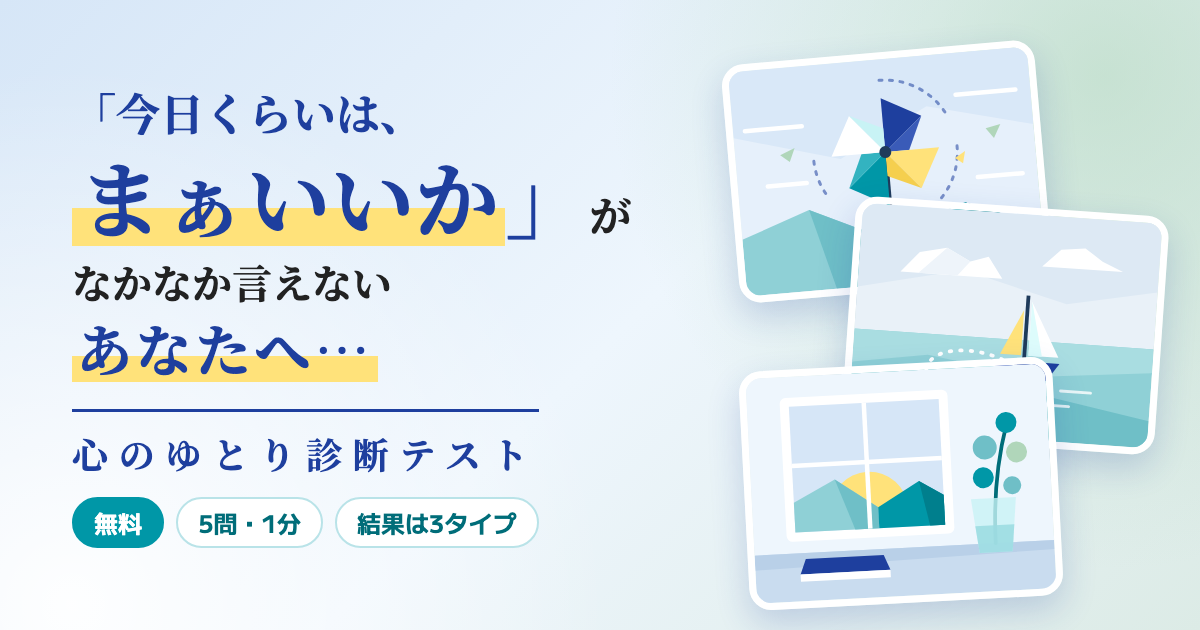
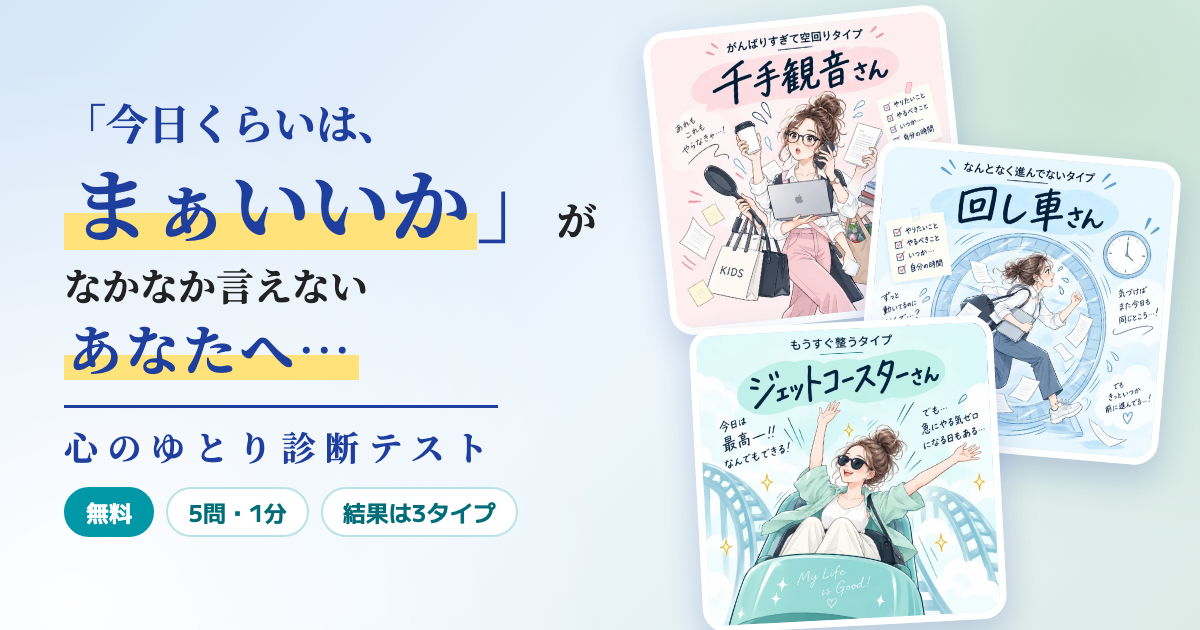
OGP画像を新イラスト3枚に更新（?v=2）、?src=threads でタイプ別リザストtrackidを登録URLに引き継ぐ計測を追加（9/22）

diff --git a/index.html b/index.html
@@ -9,7 +9,7 @@
 <meta property="og:title" content="心のゆとり診断テスト｜あまのさわ">
 <meta property="og:description" content="5問・1分。「今日くらいは、まぁいいか」がなかなか言えない人のための、心のゆとりタイプ診断。自分に合った余白の作り方がわかります。">
 <meta property="og:url" content="https://pochita1202.github.io/kokoro-yutori-shindan/">
-<meta property="og:image" content="https://pochita1202.github.io/kokoro-yutori-shindan/ogp.png">
+<meta property="og:image" content="https://pochita1202.github.io/kokoro-yutori-shindan/ogp.png?v=2">
 <meta property="og:image:width" content="1200">
 <meta property="og:image:height" content="630">
 <meta property="og:site_name" content="あまのさわ">
@@ -285,11 +285,11 @@ body.yt-immersive .freetextSec { display: none !important; }
     // 合計が min 点以上で判定（上から順）。registerUrl はタイプ別リザスト登録ページ（多目的ページ 162335/162336/162338。申込完了メール＝詳しい結果の1通だけ届く）。hook は結果メール冒頭（さわさん本人の文）から引用。
     // img はタイプ別イラスト（さわさん提供 2026-09-22。site/img/ に配置、imgBase と結合）。nick はイラスト内の愛称（入り口カードに表示＝さわさん希望 2026-09-22。<wbr> はカードでの改行位置。結果画面はイラスト内の文字に任せ alt にのみ使う）。bg はイラストの地色（結果画面の背景と入り口カードの色に使う）。peek は入り口カードの丸窓に写す位置（顔まわり・background-position 値）
     types: [
-      { min: 100, art: 'spin', img: 'type-spin-senju.webp', nick: '千手観音さん', bg: '#fdeff1', peek: '48% 36%', registerUrl: 'https://www.reservestock.jp/inquiry/OGU1MTBhNTdlN', name: 'がんばりすぎて<wbr>空回りタイプ',
+      { min: 100, art: 'spin', img: 'type-spin-senju.webp', nick: '千手観音さん', bg: '#fdeff1', peek: '48% 36%', track: { threads: '899ab82a0b1d7f5f' }, registerUrl: 'https://www.reservestock.jp/inquiry/OGU1MTBhNTdlN', name: 'がんばりすぎて<wbr>空回りタイプ',
         hook: '「今日めっちゃ頑張ったのに、\n結局なに進んだんだっけ…？」\n\n↑これ、週3で思ってません？' },
-      { min: 85, art: 'drift', img: 'type-drift-mawashiguruma.webp', nick: '回し車さん', bg: '#e8f7fd', peek: '52% 40%', registerUrl: 'https://www.reservestock.jp/inquiry/N2Q2ZWMyOGY1Y', name: 'なんとなく<wbr>進んでないタイプ',
+      { min: 85, art: 'drift', img: 'type-drift-mawashiguruma.webp', nick: '回し車さん', bg: '#e8f7fd', peek: '52% 40%', track: { threads: 'f131eb22b66fdfab' }, registerUrl: 'https://www.reservestock.jp/inquiry/N2Q2ZWMyOGY1Y', name: 'なんとなく<wbr>進んでないタイプ',
         hook: 'やることはやってる。ちゃんと生きてる。\n\nでも、「で、私は何が進んだんだろう？」\nってなりませんか？' },
-      { min: -Infinity, art: 'calm', img: 'type-calm-jetcoaster.webp', nick: 'ジェット<wbr>コースターさん', bg: '#e1fafa', peek: '51% 46%', registerUrl: 'https://www.reservestock.jp/inquiry/NjUzODJkNTY2N', name: 'もうすぐ<wbr>整うタイプ',
+      { min: -Infinity, art: 'calm', img: 'type-calm-jetcoaster.webp', nick: 'ジェット<wbr>コースターさん', bg: '#e1fafa', peek: '51% 46%', track: { threads: '12e6a16f4e812d99' }, registerUrl: 'https://www.reservestock.jp/inquiry/NjUzODJkNTY2N', name: 'もうすぐ<wbr>整うタイプ',
         hook: '惜しい。かなり惜しい。\n\nちゃんと休める日もある。\n「まあいっか」も言える。\nでも、なぜか波がある。' }
     ],
     intro: {
@@ -339,6 +339,11 @@ body.yt-immersive .freetextSec { display: none !important; }
     submitLabel: '詳しい結果をメールで受け取る', // リザスト純正ボタンの文言を差し替え（空文字なら触らない）
     hideNativeIntro: true, // リザストの告知文エリア（タイトル・見出し）を隠してアプリだけ見せる
     fontsHref: 'https://fonts.googleapis.com/css2?family=M+PLUS+1:wght@400;700&family=Noto+Serif+JP:wght@700&family=Yusei+Magic&display=swap', // Yusei Magic＝カードの愛称用の手書き風（さわさん希望 2026-09-22）
+    // ▼ 計測：アプリのURLの ?src=threads を保持し、結果画面の登録ボタンのURLに、そのタイプの登録ページ用 trackid を付ける
+    //    リザストの「流入元別リンク」はフォーム（登録ページ）ごとに発行される → 各 type の track: { threads: '…' } に持つ
+    //    （リザスト管理画面：多目的ページ → 各フォーム → アクセス解析 → 流入元別リンク「診断アプリ_Threads」 2026-09-22発行）
+    //    Facebook など流入元を増やす時は、3フォームそれぞれで「診断アプリ_Facebook」を発行し track.facebook に入れて ?src=facebook で配る
+    //    ?trackid=XXXX を直接付けた場合はそのまま登録URLに引き継ぐ（1フォーム分のテスト用）
     imgBase: 'img/', // タイプ別イラストの置き場。本番は site/img/（相対）。プレビュー・埋め込み用は build.py が本番URLの絶対パスに差し替える
     storageKey: 'yutori3202v2'
   };
@@ -350,6 +355,30 @@ body.yt-immersive .freetextSec { display: none !important; }
     gift: '<svg xmlns="http://www.w3.org/2000/svg" viewBox="0 0 64 64" aria-hidden="true" focusable="false"><rect x="14" y="10" width="36" height="46" rx="3" fill="#1e3f9e"/><rect x="14" y="10" width="7" height="46" fill="#3a5bb8"/><rect x="26" y="20" width="18" height="3" rx="1.5" fill="#fff"/><rect x="26" y="27" width="12" height="3" rx="1.5" fill="#9adbe0"/><polygon points="38,40 46,40 46,58 42,53 38,58" fill="#ffe27a"/><polygon points="54,4 56,10 62,12 56,14 54,20 52,14 46,12 52,10" fill="#ffe27a"/></svg>',
     leaf: '<svg xmlns="http://www.w3.org/2000/svg" viewBox="0 0 64 64" aria-hidden="true" focusable="false"><path d="M32 56C32 40 34 26 40 12" stroke="#006d79" stroke-width="2.5" fill="none" stroke-linecap="round"/><circle cx="40" cy="12" r="6" fill="#0097a7"/><circle cx="27" cy="24" r="7" fill="#6fbfc7"/><circle cx="43" cy="28" r="6" fill="#b0d6ba"/><circle cx="26" cy="41" r="6" fill="#0097a7"/><circle cx="40" cy="44" r="5" fill="#6fbfc7"/></svg>'
   };
+
+  // 計測用：URLの ?src=threads / ?trackid=… を拾って sessionStorage に保持（英数字・-・_ のみ許可）
+  function readTrack() {
+    var q = {};
+    try {
+      String(location.search).replace(/^\?/, '').split('&').forEach(function (kv) {
+        var i = kv.indexOf('='), k = i < 0 ? kv : kv.slice(0, i), v = i < 0 ? '' : kv.slice(i + 1);
+        if (k) q[decodeURIComponent(k)] = decodeURIComponent(v.replace(/\+/g, ' '));
+      });
+    } catch (e) {}
+    var ok = /^[A-Za-z0-9_-]{1,64}$/;
+    var t = { src: ok.test(q.src || '') ? q.src : '', trackid: ok.test(q.trackid || '') ? q.trackid : '' };
+    var key = CONFIG.storageKey + ':track';
+    try {
+      if (t.src || t.trackid) sessionStorage.setItem(key, JSON.stringify(t));
+      else t = JSON.parse(sessionStorage.getItem(key) || 'null') || t;
+    } catch (e) {}
+    return t;
+  }
+  function withTrackId(type, url) {
+    var t = readTrack();
+    var id = t.trackid || (t.src && type.track && type.track[t.src]) || '';
+    return id ? url + (url.indexOf('?') >= 0 ? '&' : '?') + 'trackid=' + encodeURIComponent(id) : url;
+  }
 
   function typeThumb(t, blur) { // 入り口カードの丸窓。イラストの一部（顔まわり）をチラ見せ。blur＝ひみつのタイプ
     return '<div class="yt-thumb"><div class="yt-thumb-img" style="background-image:url(' + esc(CONFIG.imgBase + t.img) + ');background-position:' + esc(t.peek) + '"></div>' +
@@ -485,6 +514,7 @@ body.yt-immersive .freetextSec { display: none !important; }
         img.src = I.avatarUrl;
       }
       preloadArt();
+      readTrack();
       app.querySelector('#ytStart').addEventListener('click', function () { showQuestion(0); });
     }
 
@@ -552,7 +582,7 @@ body.yt-immersive .freetextSec { display: none !important; }
         CONFIG.lockedItems.map(function (t) { return '<div class="yt-lock">' + lock + '<span>' + esc(t) + '</span></div>'; }).join('') +
         '</section>' +
         (standalone
-          ? '<div class="yt-cta is-static"><a class="yt-btn" href="' + esc(type.registerUrl) + '">' + esc(CONFIG.registerCta) + '</a><small>' + esc(CONFIG.registerNote) + '</small></div>'
+          ? '<div class="yt-cta is-static"><a class="yt-btn" href="' + esc(withTrackId(type, type.registerUrl)) + '">' + esc(CONFIG.registerCta) + '</a><small>' + esc(CONFIG.registerNote) + '</small></div>'
           : '<p class="yt-arrow">' + esc(CONFIG.arrowText) + '</p>') +
         '<button type="button" class="yt-retry">もう一度診断する</button></div>';
       setRegister(true);
